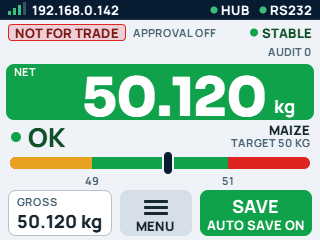
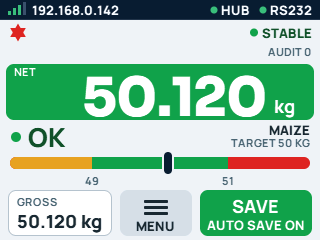
feat(wsoft-screen): a small six-pointed star instead of "NOT FOR TRADE / APPROVAL OFF"
Rhyno, 14 Nov 2026: the words under the bar were too much. Not for trade is now a small
red six-pointed star top left; a tap on it says NOT TRADE APPROVED. The "APPROVAL OFF"
reason is gone (the star says it). With trade checks on, the green TRADE CHECKS ON chip
is unchanged.

- WsoftCanvas::star6 (C++) and star6 in tools/wsoft-ui/ref.js: same maths, 4 x 4 samples
  a dot, so the golden checksums match. Goldens, presets and pictures regenerated.
- WSOFT_UI_BOX_STAR: the tap box (live page, no notice band showing).

Native suite 223 of 223 (screen goldens included).

Changed region(s): [[0.0, 0.0875, 0.6875, 0.175]]

diff --git a/tools/wsoft-ui/ref.js b/tools/wsoft-ui/ref.js
@@ -167,6 +167,26 @@ const WsoftUi = (() => {
         }
       }
     }
+    // A six-pointed star (two triangles), r = centre to a point. Edges by 4 x 4 samples a dot.
+    star6(cx, cy, r, c) {
+      const X = cx * this.sx, Y = cy * this.sy, R = r * this.sy;
+      const inside = (x, y) => {
+        const k = Math.sqrt(3) * Math.abs(x);
+        return (y <= R / 2 && y + R >= k) || (y >= -R / 2 && R - y >= k);
+      };
+      for (let py = Math.max(Math.floor(Y - R - 1), 0); py <= Math.min(Math.floor(Y + R + 1), this.H - 1); py++) {
+        for (let px = Math.max(Math.floor(X - R - 1), 0); px <= Math.min(Math.floor(X + R + 1), this.W - 1); px++) {
+          let n = 0;
+          for (let j = 0; j < 4; j++) {
+            for (let i = 0; i < 4; i++) {
+              if (inside(px + (i + 0.5) / 4 - X, py + (j + 0.5) / 4 - Y)) n++;
+            }
+          }
+          if (n === 0) continue;
+          this.put(px, py, c, n === 16 ? 255 : rnd(n * 255 / 16));
+        }
+      }
+    }
     // Width in panel dots. Characters the font does not hold take no room.
     dots(str, role) {
       const f = this.fonts[role];
@@ -213,6 +233,7 @@ const WsoftUi = (() => {
   const PAGE_LIVE = 0, PAGE_MENU = 1, PAGE_PIN = 2, PAGE_NO_PIN = 3, PAGE_WIFI = 4;
   const TONE_SOFT = 0, TONE_OK = 1, TONE_WAIT = 2, TONE_BAD = 3;
   const SLOT_NONE = 0, SLOT_STOP = 1, SLOT_WAIT = 2, SLOT_WIFI = 3;
+  const STAR_W = 20;  // the not-for-trade star (WSOFT_UI_STAR_W)
   const ZONE_NONE = 0, ZONE_LOW = 1, ZONE_OK = 2, ZONE_HIGH = 3;
   const LOOK_BTN = 0, LOOK_ON = 1, LOOK_ACCENT = 2, LOOK_PLAIN = 3, LOOK_BAD = 4;
 
@@ -286,11 +307,17 @@ const WsoftUi = (() => {
       c.text(c.fit(m.slot_detail, SMALL, 296), 160, 53, SMALL, ink, CENTER);
       return;
     }
-    const chip = m.trade_ok ? 'TRADE CHECKS ON' : 'NOT FOR TRADE';
-    const w = c.width(chip, SMALL) + 14;
-    c.rect(8, 24, w, 17, m.trade_ok ? T.ok : T.bad, 4);
-    c.rect(9, 25, w - 2, 15, m.trade_ok ? T.chip_ok : T.chip_bad, 3);
-    c.text(chip, 8 + w / 2, 32.5, SMALL, m.trade_ok ? T.ok_ink : T.bad_ink, CENTER);
+    // Not for trade: a small six-pointed star instead of the words (Rhyno, 14 Nov 2026).
+    let w = STAR_W;
+    if (m.trade_ok) {
+      const chip = 'TRADE CHECKS ON';
+      w = c.width(chip, SMALL) + 14;
+      c.rect(8, 24, w, 17, T.ok, 4);
+      c.rect(9, 25, w - 2, 15, T.chip_ok, 3);
+      c.text(chip, 8 + w / 2, 32.5, SMALL, T.ok_ink, CENTER);
+    } else {
+      c.star6(8 + w / 2, 32.5, 9, T.bad);
+    }
     const sw = c.text(m.steady, 312, 32.5, SMALL, tone(T, m.steady_tone), RIGHT);
     c.disc(312 - sw - 8, 32.5, 4, dot(T, m.steady_tone));
     c.text(c.fit(m.reason, TINY, 312 - sw - 20 - (8 + w + 7)), 8 + w + 7, 32.5, TINY, tone(T, m.reason_tone), LEFT);
@@ -498,7 +525,7 @@ const WsoftUi = (() => {
     else if (!up && !S.wifi.dismissed) m.slot = SLOT_WIFI;
     else if (n) { m.slot = SLOT_WAIT; m.slot_title = n[1]; m.slot_detail = n[2]; }
     m.trade_ok = S.check === 'ok';
-    m.reason = !S.approval ? 'APPROVAL OFF' : m.trade_ok ? 'SEQ ' + S.seq : REASON[S.check] || 'CHECK';
+    m.reason = !S.approval ? '' : m.trade_ok ? 'SEQ ' + S.seq : REASON[S.check] || 'CHECK';
     m.reason_tone = !S.approval ? TONE_SOFT : m.trade_ok ? TONE_OK : TONE_WAIT;
     m.steady = !S.linked ? 'NO SIGNAL' : S.alarm ? 'ALARM' : S.stable ? 'STABLE' : 'UNSTABLE';
     m.steady_tone = !S.linked || S.alarm ? TONE_BAD : S.stable ? TONE_OK : TONE_WAIT;

diff --git a/lib/wsoft_core/src/gen/wsoft_ui_presets.h b/lib/wsoft_core/src/gen/wsoft_ui_presets.h
@@ -23,7 +23,6 @@ inline bool wsoft_ui_preset(int n, WsoftUiModel *m) {
       m->hub_tone = 1;
       WSOFT_UI_PRESET_SET(m->link, "RS232");
       m->link_tone = 1;
-      WSOFT_UI_PRESET_SET(m->reason, "APPROVAL OFF");
       WSOFT_UI_PRESET_SET(m->steady, "STABLE");
       m->steady_tone = 1;
       WSOFT_UI_PRESET_SET(m->audit, "AUDIT 0");
@@ -79,7 +78,6 @@ inline bool wsoft_ui_preset(int n, WsoftUiModel *m) {
       m->slot = 2;
       WSOFT_UI_PRESET_SET(m->slot_title, "OUTSIDE HI-LO LIMITS");
       WSOFT_UI_PRESET_SET(m->slot_detail, "Tap SAVE twice to save anyway");
-      WSOFT_UI_PRESET_SET(m->reason, "APPROVAL OFF");
       WSOFT_UI_PRESET_SET(m->steady, "STABLE");
       m->steady_tone = 1;
       WSOFT_UI_PRESET_SET(m->audit, "AUDIT 0");
@@ -134,7 +132,6 @@ inline bool wsoft_ui_preset(int n, WsoftUiModel *m) {
       m->slot = 2;
       WSOFT_UI_PRESET_SET(m->slot_title, "OUTSIDE HI-LO LIMITS");
       WSOFT_UI_PRESET_SET(m->slot_detail, "Tap SAVE twice to save anyway");
-      WSOFT_UI_PRESET_SET(m->reason, "APPROVAL OFF");
       WSOFT_UI_PRESET_SET(m->steady, "STABLE");
       m->steady_tone = 1;
       WSOFT_UI_PRESET_SET(m->audit, "AUDIT 0");
@@ -186,7 +183,6 @@ inline bool wsoft_ui_preset(int n, WsoftUiModel *m) {
       m->hub_tone = 1;
       WSOFT_UI_PRESET_SET(m->link, "RS232");
       m->link_tone = 1;
-      WSOFT_UI_PRESET_SET(m->reason, "APPROVAL OFF");
       WSOFT_UI_PRESET_SET(m->steady, "STABLE");
       m->steady_tone = 1;
       WSOFT_UI_PRESET_SET(m->audit, "AUDIT 0");
@@ -239,7 +235,6 @@ inline bool wsoft_ui_preset(int n, WsoftUiModel *m) {
       m->hub_tone = 1;
       WSOFT_UI_PRESET_SET(m->link, "RS232");
       m->link_tone = 1;
-      WSOFT_UI_PRESET_SET(m->reason, "APPROVAL OFF");
       WSOFT_UI_PRESET_SET(m->steady, "STABLE");
       m->steady_tone = 1;
       WSOFT_UI_PRESET_SET(m->audit, "AUDIT 0");
@@ -292,7 +287,6 @@ inline bool wsoft_ui_preset(int n, WsoftUiModel *m) {
       m->hub_tone = 1;
       WSOFT_UI_PRESET_SET(m->link, "RS232");
       m->link_tone = 1;
-      WSOFT_UI_PRESET_SET(m->reason, "APPROVAL OFF");
       WSOFT_UI_PRESET_SET(m->steady, "STABLE");
       m->steady_tone = 1;
       WSOFT_UI_PRESET_SET(m->audit, "AUDIT 0");
@@ -341,7 +335,6 @@ inline bool wsoft_ui_preset(int n, WsoftUiModel *m) {
       WSOFT_UI_PRESET_SET(m->link, "RS232");
       m->link_tone = 1;
       m->slot = 3;
-      WSOFT_UI_PRESET_SET(m->reason, "APPROVAL OFF");
       WSOFT_UI_PRESET_SET(m->steady, "STABLE");
       m->steady_tone = 1;
       WSOFT_UI_PRESET_SET(m->audit, "AUDIT 0");
@@ -394,7 +387,6 @@ inline bool wsoft_ui_preset(int n, WsoftUiModel *m) {
       WSOFT_UI_PRESET_SET(m->link, "RS232");
       m->link_tone = 1;
       m->slot = 3;
-      WSOFT_UI_PRESET_SET(m->reason, "APPROVAL OFF");
       WSOFT_UI_PRESET_SET(m->steady, "STABLE");
       m->steady_tone = 1;
       WSOFT_UI_PRESET_SET(m->audit, "AUDIT 0");
@@ -451,7 +443,6 @@ inline bool wsoft_ui_preset(int n, WsoftUiModel *m) {
       m->slot = 1;
       WSOFT_UI_PRESET_SET(m->slot_title, "NO SCALE SIGNAL");
       WSOFT_UI_PRESET_SET(m->slot_detail, "Check the scale cable and power");
-      WSOFT_UI_PRESET_SET(m->reason, "APPROVAL OFF");
       WSOFT_UI_PRESET_SET(m->steady, "NO SIGNAL");
       m->steady_tone = 3;
       WSOFT_UI_PRESET_SET(m->audit, "AUDIT 0");
@@ -566,7 +557,6 @@ inline bool wsoft_ui_preset(int n, WsoftUiModel *m) {
       m->hub_tone = 1;
       WSOFT_UI_PRESET_SET(m->link, "RS232");
       m->link_tone = 1;
-      WSOFT_UI_PRESET_SET(m->reason, "APPROVAL OFF");
       WSOFT_UI_PRESET_SET(m->steady, "STABLE");
       m->steady_tone = 1;
       WSOFT_UI_PRESET_SET(m->audit, "AUDIT 0");
@@ -614,7 +604,6 @@ inline bool wsoft_ui_preset(int n, WsoftUiModel *m) {
       m->hub_tone = 1;
       WSOFT_UI_PRESET_SET(m->link, "RS485");
       m->link_tone = 1;
-      WSOFT_UI_PRESET_SET(m->reason, "APPROVAL OFF");
       WSOFT_UI_PRESET_SET(m->steady, "STABLE");
       m->steady_tone = 1;
       WSOFT_UI_PRESET_SET(m->audit, "AUDIT 0");
@@ -678,7 +667,6 @@ inline bool wsoft_ui_preset(int n, WsoftUiModel *m) {
       m->hub_tone = 1;
       WSOFT_UI_PRESET_SET(m->link, "RS232");
       m->link_tone = 1;
-      WSOFT_UI_PRESET_SET(m->reason, "APPROVAL OFF");
       WSOFT_UI_PRESET_SET(m->steady, "STABLE");
       m->steady_tone = 1;
       WSOFT_UI_PRESET_SET(m->audit, "AUDIT 0");
@@ -734,7 +722,6 @@ inline bool wsoft_ui_preset(int n, WsoftUiModel *m) {
       m->hub_tone = 1;
       WSOFT_UI_PRESET_SET(m->link, "RS232");
       m->link_tone = 1;
-      WSOFT_UI_PRESET_SET(m->reason, "APPROVAL OFF");
       WSOFT_UI_PRESET_SET(m->steady, "STABLE");
       m->steady_tone = 1;
       WSOFT_UI_PRESET_SET(m->audit, "AUDIT 0");
@@ -790,7 +777,6 @@ inline bool wsoft_ui_preset(int n, WsoftUiModel *m) {
       m->slot = 2;
       WSOFT_UI_PRESET_SET(m->slot_title, "OUTSIDE HI-LO LIMITS");
       WSOFT_UI_PRESET_SET(m->slot_detail, "Tap SAVE twice to save anyway");
-      WSOFT_UI_PRESET_SET(m->reason, "APPROVAL OFF");
       WSOFT_UI_PRESET_SET(m->steady, "STABLE");
       m->steady_tone = 1;
       WSOFT_UI_PRESET_SET(m->audit, "AUDIT 0");
@@ -843,7 +829,6 @@ inline bool wsoft_ui_preset(int n, WsoftUiModel *m) {
       m->hub_tone = 1;
       WSOFT_UI_PRESET_SET(m->link, "RS232");
       m->link_tone = 1;
-      WSOFT_UI_PRESET_SET(m->reason, "APPROVAL OFF");
       WSOFT_UI_PRESET_SET(m->steady, "STABLE");
       m->steady_tone = 1;
       WSOFT_UI_PRESET_SET(m->audit, "AUDIT 0");
@@ -900,7 +885,6 @@ inline bool wsoft_ui_preset(int n, WsoftUiModel *m) {
       m->slot = 2;
       WSOFT_UI_PRESET_SET(m->slot_title, "OUTSIDE HI-LO LIMITS");
       WSOFT_UI_PRESET_SET(m->slot_detail, "Tap SAVE twice to save anyway");
-      WSOFT_UI_PRESET_SET(m->reason, "APPROVAL OFF");
       WSOFT_UI_PRESET_SET(m->steady, "STABLE");
       m->steady_tone = 1;
       WSOFT_UI_PRESET_SET(m->audit, "AUDIT 0");
@@ -953,7 +937,6 @@ inline bool wsoft_ui_preset(int n, WsoftUiModel *m) {
       WSOFT_UI_PRESET_SET(m->link, "RS232");
       m->link_tone = 1;
       m->slot = 3;
-      WSOFT_UI_PRESET_SET(m->reason, "APPROVAL OFF");
       WSOFT_UI_PRESET_SET(m->steady, "STABLE");
       m->steady_tone = 1;
       WSOFT_UI_PRESET_SET(m->audit, "AUDIT 0");
@@ -1008,7 +991,6 @@ inline bool wsoft_ui_preset(int n, WsoftUiModel *m) {
       m->hub_tone = 1;
       WSOFT_UI_PRESET_SET(m->link, "RS232");
       m->link_tone = 1;
-      WSOFT_UI_PRESET_SET(m->reason, "APPROVAL OFF");
       WSOFT_UI_PRESET_SET(m->steady, "STABLE");
       m->steady_tone = 1;
       WSOFT_UI_PRESET_SET(m->audit, "AUDIT 0");
@@ -1185,7 +1167,6 @@ inline bool wsoft_ui_preset(int n, WsoftUiModel *m) {
       m->hub_tone = 1;
       WSOFT_UI_PRESET_SET(m->link, "RS232");
       m->link_tone = 1;
-      WSOFT_UI_PRESET_SET(m->reason, "APPROVAL OFF");
       WSOFT_UI_PRESET_SET(m->steady, "STABLE");
       m->steady_tone = 1;
       WSOFT_UI_PRESET_SET(m->audit, "AUDIT 0");
@@ -1239,7 +1220,6 @@ inline bool wsoft_ui_preset(int n, WsoftUiModel *m) {
       WSOFT_UI_PRESET_SET(m->link, "RS232");
       m->link_tone = 1;
       m->slot = 3;
-      WSOFT_UI_PRESET_SET(m->reason, "APPROVAL OFF");
       WSOFT_UI_PRESET_SET(m->steady, "STABLE");
       m->steady_tone = 1;
       WSOFT_UI_PRESET_SET(m->audit, "AUDIT 0");
@@ -1291,7 +1271,6 @@ inline bool wsoft_ui_preset(int n, WsoftUiModel *m) {
       WSOFT_UI_PRESET_SET(m->link, "RS232");
       m->link_tone = 1;
       m->slot = 3;
-      WSOFT_UI_PRESET_SET(m->reason, "APPROVAL OFF");
       WSOFT_UI_PRESET_SET(m->steady, "STABLE");
       m->steady_tone = 1;
       WSOFT_UI_PRESET_SET(m->audit, "AUDIT 0");
@@ -1343,7 +1322,6 @@ inline bool wsoft_ui_preset(int n, WsoftUiModel *m) {
       m->hub_tone = 3;
       WSOFT_UI_PRESET_SET(m->link, "WRITER");
       m->link_tone = 1;
-      WSOFT_UI_PRESET_SET(m->reason, "APPROVAL OFF");
       WSOFT_UI_PRESET_SET(m->steady, "STABLE");
       m->steady_tone = 1;
       WSOFT_UI_PRESET_SET(m->audit, "AUDIT 0");

diff --git a/test/test_wsoft_ui/golden.h b/test/test_wsoft_ui/golden.h
@@ -4,5 +4,5 @@
 
 #include <stdint.h>
 
-static const uint32_t GOLDEN_1X[] = {0x75691630, 0xCB8630B6, 0x13C357CE, 0xC47B0896, 0x57511163, 0xE869EF95, 0x4042B08A, 0x0169D3E2, 0x91E90C57, 0xFDF178CC, 0xCDEDF44E, 0x26D96EE3, 0x205B387A, 0xC8444119, 0x706241EF, 0xAD93FFB4, 0x1E099634, 0xA7C846C0, 0x29F2D94F, 0x292D4BDD, 0xFFB61478, 0xCE17ED72, 0x29601460, 0x91CC4766, 0x926C02B0};
-static const uint32_t GOLDEN_2X[] = {0xB8624AC4, 0xEE8355B3, 0x3DF3B986, 0x12BBD391, 0xC2C7FFCC, 0x1E25A252, 0x087B2AE7, 0x6FA89258, 0x856FCB6E, 0x328374DB, 0x98D1B276, 0x8241D678, 0xCC0B4B47, 0x1A5164EE, 0x563032EB, 0xE434043F, 0x63F98DCA, 0x6F641277, 0x9B7D4A8C, 0x87760814, 0x54E248B5, 0x40334849, 0x7E49473E, 0x69F2874B, 0xEB7C9ED1};
+static const uint32_t GOLDEN_1X[] = {0x2EED3E39, 0xCB8630B6, 0x13C357CE, 0x27D81C90, 0x0CD5396A, 0xB3EDC79C, 0x4042B08A, 0x0169D3E2, 0x91E90C57, 0xFDF178CC, 0x9669DC47, 0x26D96EE3, 0x205B387A, 0xC8444119, 0x706241EF, 0xAD93FFB4, 0x1E099634, 0xA7C846C0, 0x29F2D94F, 0x217565AE, 0xFFB61478, 0xCE17ED72, 0x29601460, 0x91CC4766, 0xC9E82AB9};
+static const uint32_t GOLDEN_2X[] = {0x2CB597FA, 0xEE8355B3, 0x3DF3B986, 0x2F7B4FCE, 0x561022F2, 0x8AF27F6C, 0x087B2AE7, 0x6FA89258, 0x856FCB6E, 0x328374DB, 0x0C066F48, 0x8241D678, 0xCC0B4B47, 0x1A5164EE, 0x563032EB, 0xE434043F, 0x63F98DCA, 0x6F641277, 0x9B7D4A8C, 0x3944787F, 0x54E248B5, 0x40334849, 0x7E49473E, 0x69F2874B, 0x7FAB43EF};

diff --git a/lib/wsoft_core/src/wsoft_gfx.cpp b/lib/wsoft_core/src/wsoft_gfx.cpp
@@ -105,6 +105,35 @@ void WsoftCanvas::disc(double cx, double cy, double r, uint16_t color) {
   }
 }
 
+
+// Inside the six-pointed star of radius R at the origin: either triangle.
+static bool in_star6(double x, double y, double R) {
+  double k = sqrt(3.0) * fabs(x);
+  return (y <= R / 2 && y + R >= k) || (y >= -R / 2 && R - y >= k);
+}
+
+void WsoftCanvas::star6(double cx, double cy, double r, uint16_t color) {
+  double X = cx * sx_, Y = cy * sy_, R = r * sy_;
+  long first = (long)floor(Y - R - 1), last = (long)floor(Y + R + 1);
+  long left = (long)floor(X - R - 1), right = (long)floor(X + R + 1);
+  if (first < top_) first = top_;
+  if (last > top_ + rows_ - 1) last = top_ + rows_ - 1;
+  if (left < 0) left = 0;
+  if (right > width_ - 1) right = width_ - 1;
+  for (long py = first; py <= last; py++) {
+    for (long px = left; px <= right; px++) {
+      int n = 0;
+      for (int j = 0; j < 4; j++) {
+        for (int i = 0; i < 4; i++) {
+          if (in_star6(px + (i + 0.5) / 4 - X, py + (j + 0.5) / 4 - Y, R)) n++;
+        }
+      }
+      if (n == 0) continue;
+      put((int)px, (int)py, color, n == 16 ? 255 : (int)rnd(n * 255.0 / 16));
+    }
+  }
+}
+
 int WsoftCanvas::dots(const char *text, int font) const {
   const WsoftFont &f = fonts_[font];
   int w = 0;

diff --git a/lib/wsoft_core/src/wsoft_ui_paint.cpp b/lib/wsoft_core/src/wsoft_ui_paint.cpp
@@ -101,11 +101,18 @@ static void paint_top(WsoftCanvas &c, const WsoftUiModel &m, const Theme &T) {
     c.text(c.fit(m.slot_detail, SMALL, 296, cut, sizeof cut), 160, 53, SMALL, ink, WSOFT_CENTER);
     return;
   }
-  const char *chip = m.trade_ok ? "TRADE CHECKS ON" : "NOT FOR TRADE";
-  double w = c.width(chip, SMALL) + 14;
-  c.rect(8, 24, w, 17, m.trade_ok ? T.ok : T.bad, 4);
-  c.rect(9, 25, w - 2, 15, m.trade_ok ? T.chip_ok : T.chip_bad, 3);
-  c.text(chip, 8 + w / 2, 32.5, SMALL, m.trade_ok ? T.ok_ink : T.bad_ink, WSOFT_CENTER);
+  // Not for trade: a small six-pointed star instead of the words (Rhyno, 14 Nov 2026); a tap
+  // on it says NOT TRADE APPROVED (WSOFT_UI_BOX_STAR).
+  double w = WSOFT_UI_STAR_W;
+  if (m.trade_ok) {
+    const char *chip = "TRADE CHECKS ON";
+    w = c.width(chip, SMALL) + 14;
+    c.rect(8, 24, w, 17, T.ok, 4);
+    c.rect(9, 25, w - 2, 15, T.chip_ok, 3);
+    c.text(chip, 8 + w / 2, 32.5, SMALL, T.ok_ink, WSOFT_CENTER);
+  } else {
+    c.star6(8 + w / 2, 32.5, 9, T.bad);
+  }
   double sw = c.text(m.steady, 312, 32.5, SMALL, tone(T, m.steady_tone), WSOFT_RIGHT);
   c.disc(312 - sw - 8, 32.5, 4, dot(T, m.steady_tone));
   c.text(c.fit(m.reason, TINY, 312 - sw - 20 - (8 + w + 7), cut, sizeof cut), 8 + w + 7, 32.5, TINY,

diff --git a/lib/wsoft_core/src/wsoft_ui_paint.h b/lib/wsoft_core/src/wsoft_ui_paint.h
@@ -143,6 +143,9 @@ struct WsoftUiBox {
 };
 static const WsoftUiBox WSOFT_UI_BOX_WIFI_BAR = {0, 0, 150, 20};   // the Wi-Fi part of the status bar
 static const WsoftUiBox WSOFT_UI_BOX_SLOT = {6, 22, 308, 40};      // the notice band
+// The not-for-trade star, top left under the bar (a finger-sized box around it).
+static const double WSOFT_UI_STAR_W = 20;
+static const WsoftUiBox WSOFT_UI_BOX_STAR = {0, 20, 40, 26};
 static const WsoftUiBox WSOFT_UI_BOX_CONNECT = {160, 26, 100, 32}; // on the Wi-Fi alert
 static const WsoftUiBox WSOFT_UI_BOX_DISMISS = {266, 26, 42, 32};
 static const WsoftUiBox WSOFT_UI_BOX_MENU = {120, 190, 72, 46};

diff --git a/lib/wsoft_esp/src/wsoft_ui.cpp b/lib/wsoft_esp/src/wsoft_ui.cpp
@@ -652,6 +652,9 @@ static void tap(int x, int y) {
         WeighingsInfo weigh;
         weighings_info(&weigh);
         if (weigh.waiting == WSOFT_SAVE_NO_CLOCK) open_page(WSOFT_UI_PAGE_WIFI);
+      } else if (shown.slot == WSOFT_UI_SLOT_NONE && !shown.trade_ok && WSOFT_UI_BOX_STAR.hit(x, y)) {
+        // The not-for-trade star (Rhyno, 14 Nov 2026): a tap says what it means.
+        say("NOT TRADE APPROVED");
       } else if (x >= WSOFT_UI_BOX_SAVE.x - 4 && y >= WSOFT_UI_BOX_SAVE.y - 4) {
         // SAVE reaches to the corner of the screen: a tap near the edge still saves.
         weighings_request_save();

diff --git a/lib/wsoft_core/src/wsoft_gfx.h b/lib/wsoft_core/src/wsoft_gfx.h
@@ -53,6 +53,8 @@ class WsoftCanvas {
   // r: corner radius in layout units; below 0 rounds the short side fully (a pill).
   void rect(double x, double y, double w, double h, uint16_t color, double r = 0);
   void disc(double cx, double cy, double r, uint16_t color);
+  // A six-pointed star (two triangles), r = centre to a point. Edges by 4 x 4 samples a dot.
+  void star6(double cx, double cy, double r, uint16_t color);
 
   // Width of text in panel dots. Characters the font does not hold take no room.
   int dots(const char *text, int font) const;

diff --git a/test/test_wsoft_ui/test_main.cpp b/test/test_wsoft_ui/test_main.cpp
@@ -273,7 +273,7 @@ void test_model_trade_row() {
   in.audit = 7;
   wsoft_ui_model(in, &model);
   TEST_ASSERT_FALSE(model.trade_ok);
-  TEST_ASSERT_EQUAL_STRING("APPROVAL OFF", model.reason);
+  TEST_ASSERT_EQUAL_STRING("", model.reason);  // approval off: the star says it, no words
   TEST_ASSERT_EQUAL(WSOFT_UI_TONE_SOFT, model.reason_tone);
   TEST_ASSERT_EQUAL_STRING("AUDIT 7", model.audit);
   TEST_ASSERT_EQUAL_STRING("STABLE", model.steady);

diff --git a/lib/wsoft_core/src/wsoft_ui_model.cpp b/lib/wsoft_core/src/wsoft_ui_model.cpp
@@ -62,7 +62,7 @@ static const char *trade_reason(const WsoftUiInput &in, char *line, size_t size,
       return line;
     case TRADE_OFF:
       *tone = WSOFT_UI_TONE_SOFT;
-      return "APPROVAL OFF";
+      return "";  // the star says it (Rhyno, 14 Nov 2026: the words were too much)
     case TRADE_NO_SIGNAL: return "NO SIGNAL";
     case TRADE_STALE: return "NO REPLY";
     case TRADE_QUEUE_FULL: return "QUEUE FULL";
